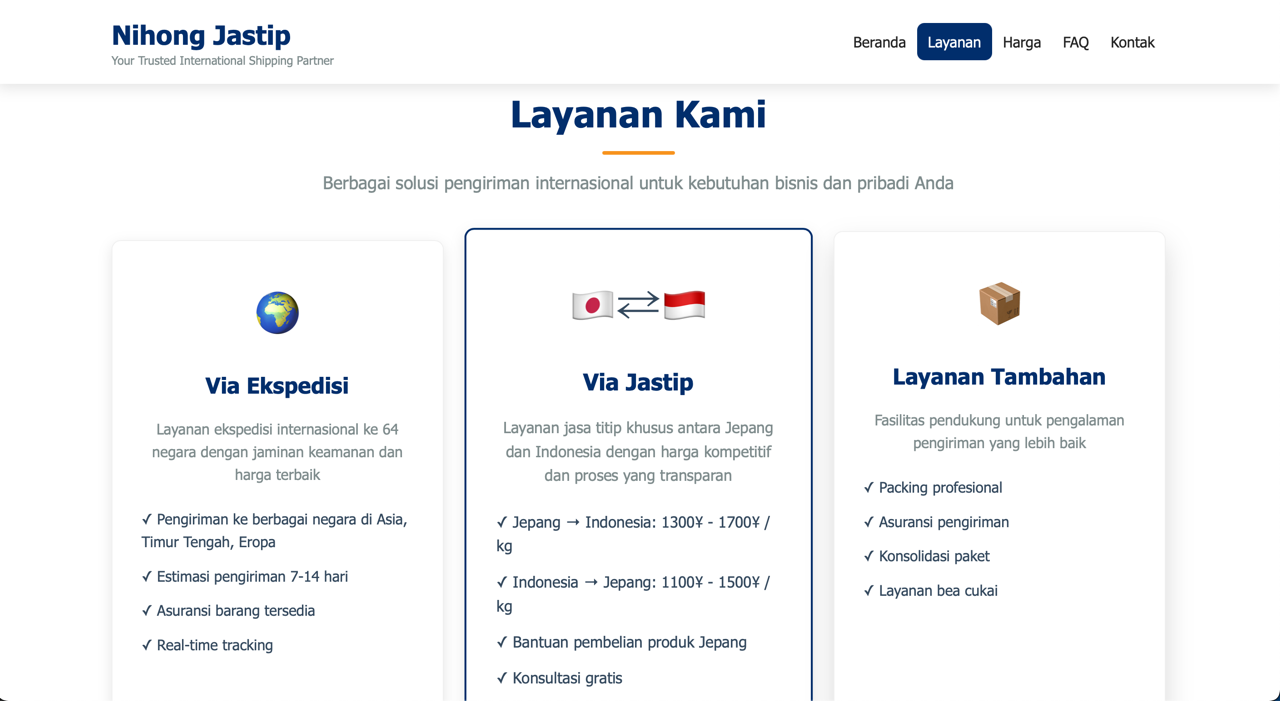
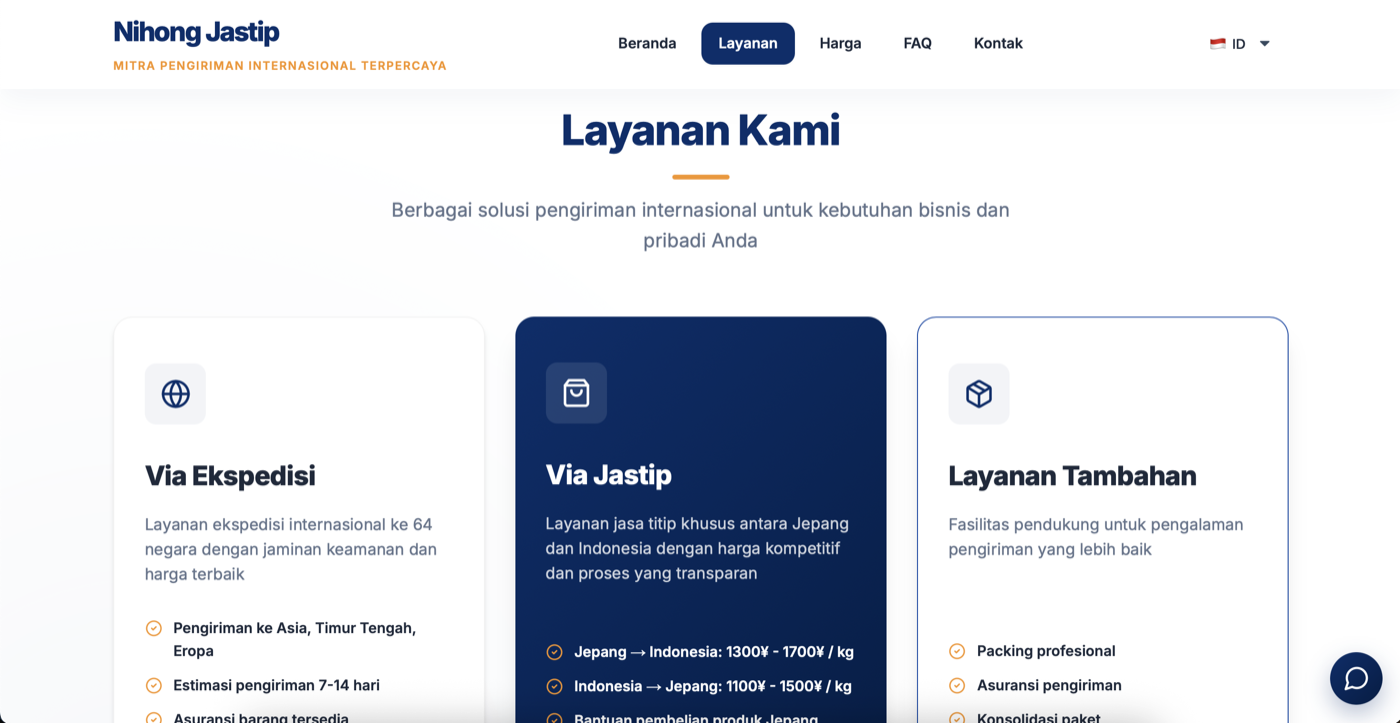
feat: upgrade Jastip project stack to Next.js 15, add AI chatbot and i18n support, and update project assets

diff --git a/src/infrastructure/i18n.ts b/src/infrastructure/i18n.ts
@@ -135,8 +135,8 @@ const resources = {
                         full: "Reputed as a premier online education platform for students, teachers, and schools, Kejarcita serves dual purposes: promoting independent practice and assisting synchronous online learning. Key highlights include an expansive, repeatedly updated question bank accommodating elementary to high school criteria. The platform provides free access to thousands of educational exercises in Mathematics, Sciences, Social Studies, Indonesian, and English. Additionally, complex High-Order Thinking Skills (HOTS) questions are fully accommodated in premium subscriptions."
                     },
                     jastip: {
-                        desc: "A responsive landing page designed for a Japan-Indonesia international personal shopping and shipping service, assisting users in understanding operations and effortlessly initiating orders.",
-                        full: "The Nihong Jastip website acts primarily as an informational hub and a strong branding medium for the personal shopping (jastip) enterprise. Key development focused on crafting a modern, fully responsive, and straightforward interface so prospective users quickly understand service particulars and seamlessly submit orders. The website encompasses detailed service explanations, core business advantages, and strategically positioned call-to-actions directly connected to WhatsApp for rapid inquiries."
+                        desc: "A premium, SEO-optimized company profile website for a Japan-Indonesia personal shopping service, featuring an intelligent AI chatbot and advanced i18n support.",
+                        full: "The Nihong Jastip website is a high-performance, Next.js 15+ web application that serves as the digital storefront for a Japan-Indonesia personal shopping and expedition enterprise. It features an intelligent AI chatbot powered by Groq to provide 24/7 customer support, advanced URL-based internationalization (ID, EN, JA), and robust SEO optimizations with JSON-LD structured data. The platform boasts a premium, fully responsive design with smooth Framer Motion animations to ensure a seamless and engaging user experience."
                     },
                     jastip_admin: {
                         desc: "A feature-rich admin dashboard for NihongTeam's Jastip service, enabling admins to manage products, orders, and users through an intuitive and responsive interface.",
@@ -280,8 +280,8 @@ const resources = {
                         full: "Reputasi sebagai platform pendidikan online utama untuk siswa dan guru, Kejarcita membantu latihan mandiri dan pembelajaran sinkron. Memiliki bank soal luas dari SD hingga SMA, termasuk soal HOTS untuk pelanggan premium."
                     },
                     jastip: {
-                        desc: "Landing page responsif untuk layanan jasa titip beli (jastip) Jepang-Indonesia.",
-                        full: "Website Nihong Jastip bertindak sebagai pusat informasi dan media branding untuk usaha jastip. Pengembangan fokus pada antarmuka modern dan responsif agar calon pengguna cepat memahami layanan dan melakukan pemesanan via WhatsApp."
+                        desc: "Website profil perusahaan premium yang dioptimalkan untuk SEO untuk layanan jastip Jepang-Indonesia, dilengkapi dengan chatbot AI cerdas dan dukungan i18n lanjutan.",
+                        full: "Website Nihong Jastip adalah aplikasi web Next.js 15+ berkinerja tinggi yang berfungsi sebagai etalase digital untuk perusahaan jasa titip dan ekspedisi Jepang-Indonesia. Platform ini dilengkapi dengan chatbot AI cerdas yang didukung oleh Groq untuk menyediakan dukungan pelanggan 24/7, internasionalisasi berbasis URL tingkat lanjut (ID, EN, JA), dan optimisasi SEO yang kuat dengan structured data JSON-LD. Website ini menawarkan desain premium yang sepenuhnya responsif dengan animasi Framer Motion yang halus untuk memastikan pengalaman pengguna yang mulus dan menarik."
                     },
                     jastip_admin: {
                         desc: "Dashboard admin kaya fitur untuk layanan Jastip NihongTeam, mengelola produk, pesanan, dan pengguna.",

diff --git a/src/data/portfolio.repository.ts b/src/data/portfolio.repository.ts
@@ -166,10 +166,10 @@ const PROJECTS: Project[] = [
     type: ProjectType.WEB,
     description: "projects.items.jastip.desc",
     fullDescription: "projects.items.jastip.full",
-    technologies: ["React", "Javascript"],
-    images: ["assets/jastip1.png", "assets/jastip2.png", "assets/jastip3.png"],
+    technologies: ["Next.js", "TypeScript", "Groq AI", "Framer Motion"],
+    images: ["assets/jastip1.png", "assets/jastip2.png", "assets/jastip3.png", "assets/jastip4.png"],
     demoUrl: "https://nihongjastip.com",
-    repoUrl: "",
+    repoUrl: "https://github.com/candrasdkd/nihong-jastip-company-profile",
   },
   {
     id: 4,
